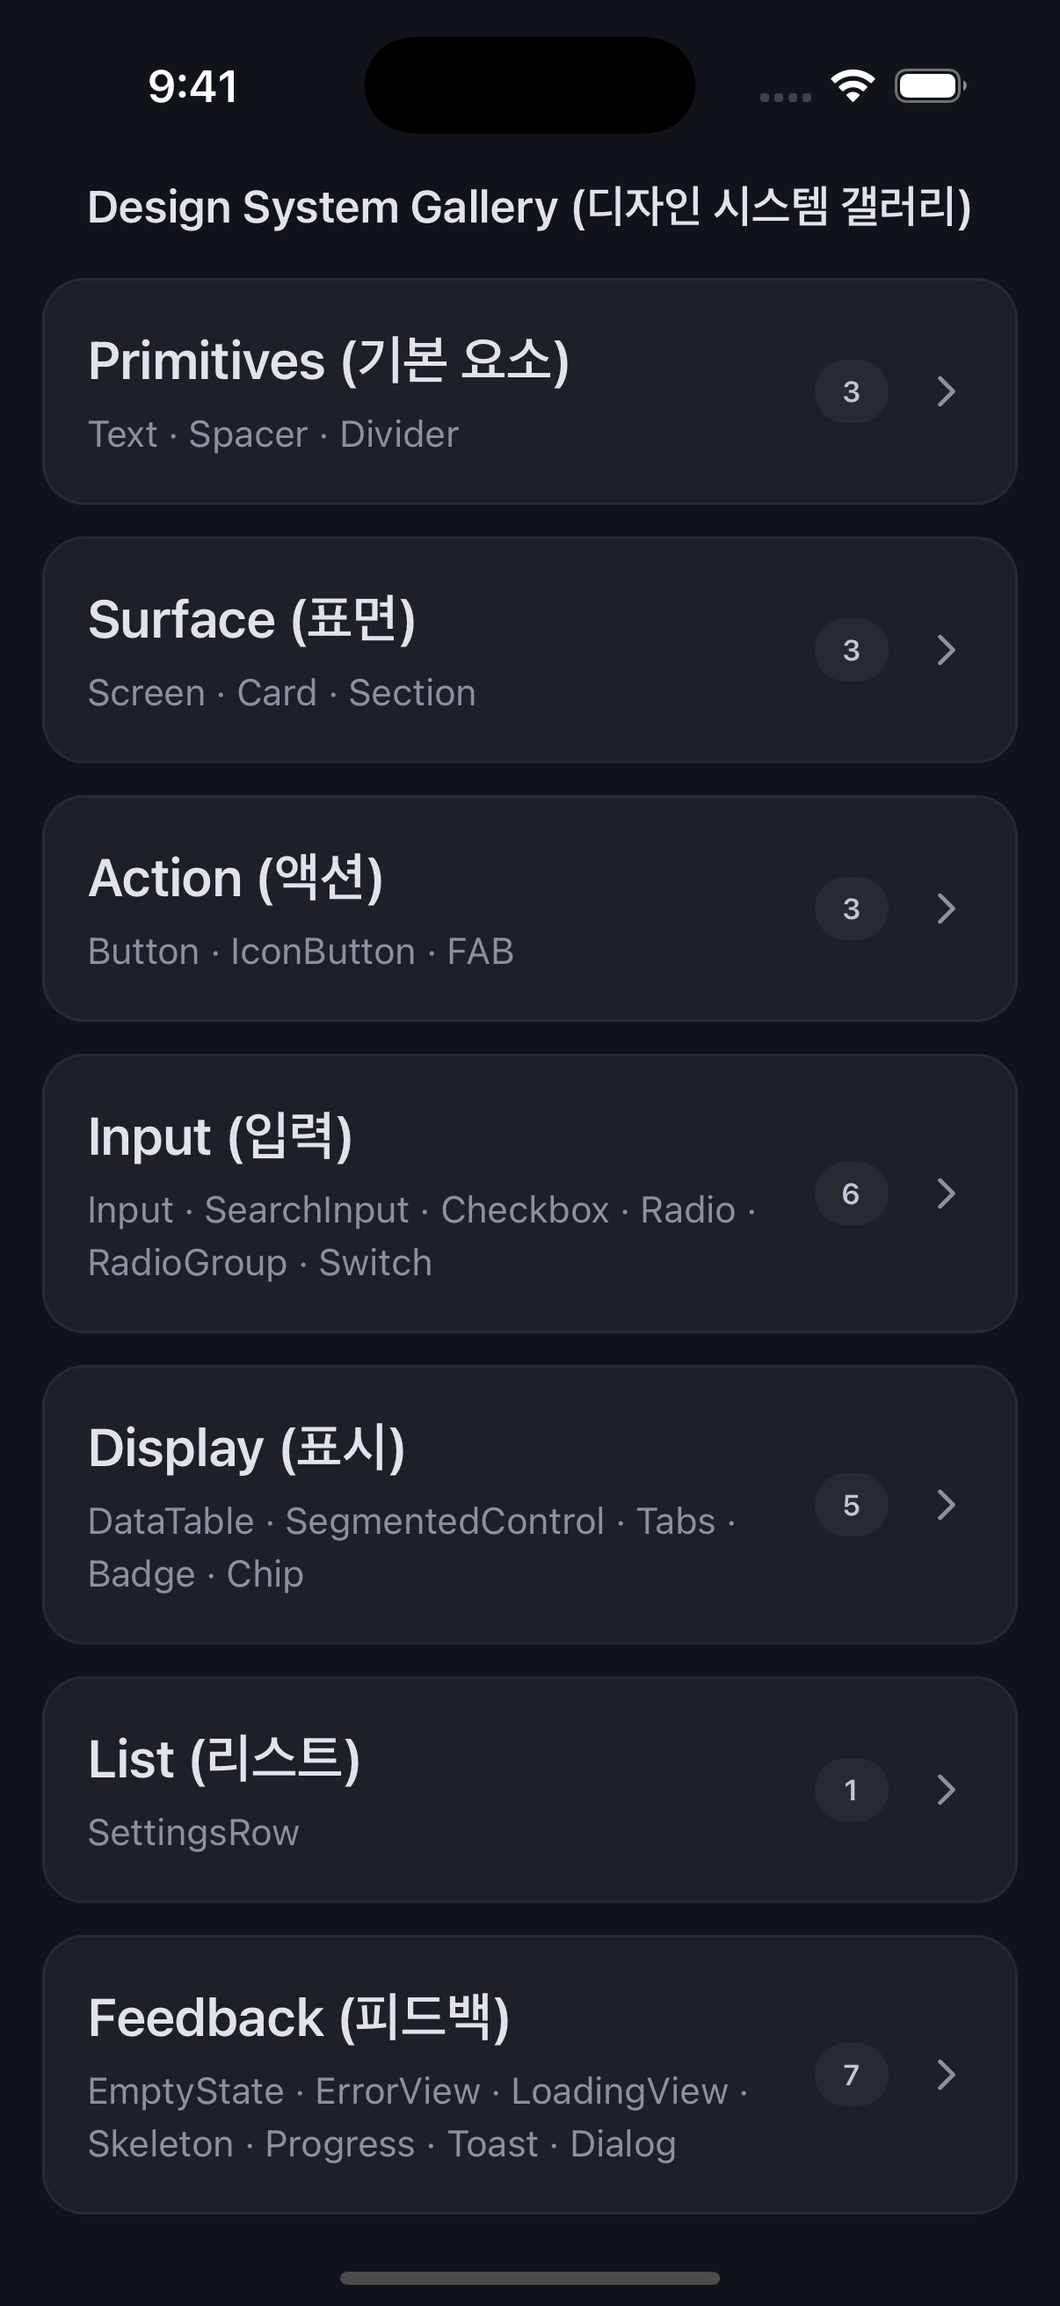
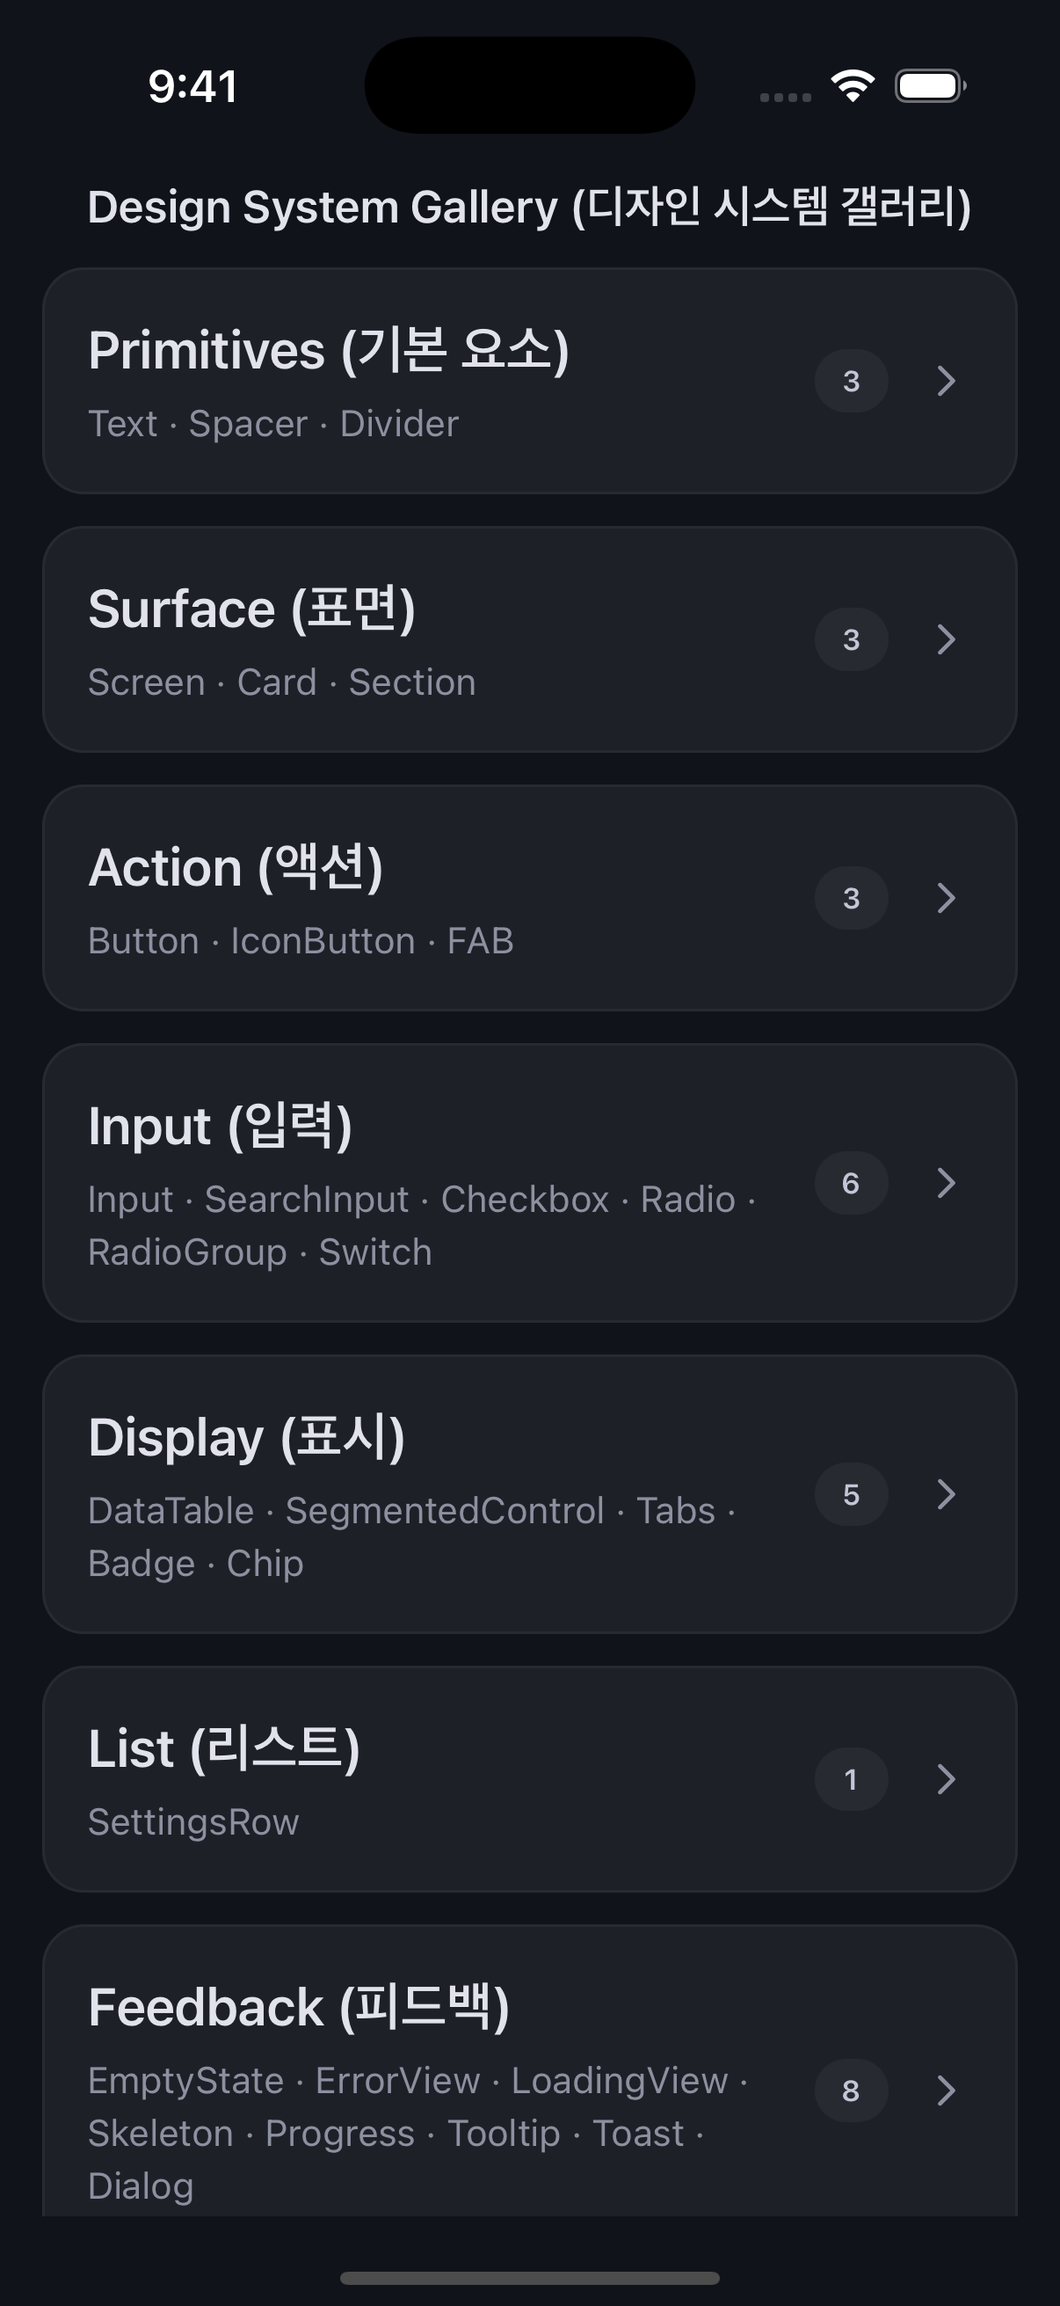
사이클 4 문서/스크린샷 갱신 — ADR-28(사용자 짚기 8~12 누적) + Tooltip 스크린샷 + GalleryHome 29 반영
ADR-28 사이클 4 본질 학습 누적
- 상황: 사용자 본질 짚기 8~12번째 누적 명시 (표면 → 본질 → 환경 본질 → 종속성 검증)
- 선택: cloneElement + InteractivePressableProps Pick 상속 조합 본질적 해결
- 포기한 옵션: Pressable wrap 패턴(RN nested Pressable 충돌로 실패),
  release 시 dismiss(사용자 의도와 다름), 비-인터랙티브 element 자동 wrap(v2.x)
- 근거(라이브러리 본질): 라이브러리 종속성 검증 완료 — RN 표준 PressableProps
  수용 컴포넌트 모두 자유 결합 + 비-인터랙티브 element는 RN Touch Responder
  System 본질 한계
- 근거(사용자 관점): 사용자 본질 짚기 점진적 깊이가 라이브러리 가치 본질적 격상,
  환경 본질도 본질의 일부, 라이브러리 정직성이 가치의 본질
- 사이클 4 학습 9건: 사용자 시각 검증 본질 + RN 환경 특성 + cloneElement RN 정합
  + 갤러리 layout + 사이클 정책 + Pick 상속 표준 + 점진적 깊이 + 사용자 vs
  환경 본질 균형 + 종속성 정직 검증

스크린샷
- docs/screenshots/tooltip-light/dark.png 신규 (4 position + visible 데모 +
  라이브러리 종속성 검증 3 케이스)
- docs/screenshots/home-light/dark.png 갱신 (Feedback 카드 count 8 + 전체 29 반영)

README
- 헤더 28 → 29, 컴포넌트 표에 Tooltip 행 추가
- 스크린샷 섹션 'Feedback — Tooltip' 신규 (Toast 다음, Dialog 앞)
- 사용 예시 'Tooltip' 코드 블록 신규 (자동 모드 + position 지정 + controlled mode)
- 호환 children 가이드 표 (5 케이스 — 라이브러리/Pressable/TouchableOpacity/외부/View)
- v1.x 7번째 표준 패턴 InteractivePressableProps 명시

사이클 4 최종 정합
- 정합 카운트 13/13 (Tooltip), 누적 208/208 (사이클 1·2·3·4)
- 인라인 스타일 분류 A 0건 유지
- 신규 토큰 1개 (surface/inverse) — ADR-28 정책 갱신 정당화
- 신규 의존성 0개 (사이클 1·2·2.5·3·4 누적)
- v1.x 라이브러리 표준 패턴 7번째 (InteractivePressableProps)

diff --git a/DECISIONS.md b/DECISIONS.md
@@ -254,3 +254,18 @@
 - **근거 (기술)**: Reanimated v4 + react-native-svg 첫 결합 패턴 검증 — `Animated.createAnimatedComponent(Circle)` + `useAnimatedProps` (strokeDashoffset 동적 60fps). determinate 300ms `withTiming` — value 변경 부드러운 transition. indeterminate `withRepeat(withTiming, -1, false)` — UI 스레드 worklet 무한 회전/슬라이드 (Linear: `translateX -fillW → trackWidth`, Circular: `rotate 0 → 360deg`). `cancelAnimation` cleanup (unmount memory leak 방지). accessibility — `progressbar` role + determinate `accessibilityValue` `{min:0, max:100, now}` / indeterminate `accessibilityState` `{busy: true}`.
 - **근거 (사용자 관점 — 사이클 3 학습)**: Figma 단계 3 이슈 발견 + Demo Card wrapper 누락 발견 → mode 미리보기 패턴 라이브러리 일관 적용. 코드 단계 본질 발견("다운로드 게이지 차오름") → 동적 데모 추가로 determinate variant 진짜 가치 시연. **Claude Code 자체 검증 통과 ≠ 사용자 시각 검증 통과** — 사용자 본질 짚기가 라이브러리 가치를 한 단계 높임. 사이클 3 학습은 ADR-25 갱신 가치 있으나 v1.x 후순위로 분리.
 - **v2.x 진화 예정**: Interactive 시연 (slider로 value 조정), Circular indet M3 표준 (arc 길이 변화 + 회전), Linear indet M3 표준 (두 fill 교대 슬라이드), buffer variant 지원 (다운로드 + 버퍼링 시나리오), determinate value smooth interpolation 옵션 prop.
+
+---
+
+## ADR-28: Tooltip 컴포넌트 + `surface/inverse` 신규 토큰 + 사이클 정책 갱신 (토큰 0 → 정당화된 토큰) (사이클 4)
+
+- **상황**: 사이클 3 종료 후 Tooltip 진입 (M3 표준 컴포넌트). 사이클 4 사전 조사 후 9개 안건 결정(작업 1 보고서). Figma 설계 중 본질 발견: **라이브러리에 `surface/inverse` 토큰 부재**. M3 Tooltip 표준은 inverse surface 필수 (Plain max-width 200dp + inverse 배경 + inverse on-surface 텍스트). 라이브러리 inverse 패턴은 text(3개) + primary(1개) 4개에만 있고 **surface 영역만 누락**. 사이클 1·2·2.5·3 누적 신규 토큰 0 원칙 유지 시 M3 Tooltip 정확 구현 불가 — Claude Code 큰 변경 사전 보고 의무 이행. **사이클 4 RN 코드 진행 중 본질적 정정 누적 (사용자 본질 짚기 8·9·10·11·12번째)**: 8) IconButton만 onLongPress 추가하면 다른 인터랙티브도 정정 필요 → InteractivePressableProps Pick 상속 5개 일괄 도입. 9) cloneElement 패턴이 라이브러리 외부 컴포넌트 wrap 불가 → Pressable wrap 패턴 시도. 11) Pressable wrap이 nested Pressable 충돌로 Tooltip 표시 0 → **cloneElement 패턴 복원** (RN Touch Responder System 본질 한계). 12) Tooltip 라이브러리 종속성 검증 요청 → 갤러리 검증 섹션 (RN Pressable / View / TouchableOpacity 3 케이스) 추가 + 시각 검증으로 종속 아님 명문화. 사이클 4의 본질적 학습: **환경 본질도 본질의 일부** (사용자 짚기와 RN 환경 제약의 균형).
+- **선택**: **신규 토큰 `color/surface/inverse` 1개 추가** (mode-aware: Light `#1A1F2E` / Dark `#F8FAFC`, scope `FRAME_FILL + SHAPE_FILL`). text는 **기존 `color/text/inverse` (VariableID:16:5) 재사용** — 신규 토큰 최소화. **사이클 정책 갱신**: 이전 "신규 토큰 0개 추가" → 이후 "**정당화된 토큰 추가 가능 (ADR로 사유 명시 필수)**" — ADR-26 의존성 정책 갱신과 동일 구조. **Tooltip 9개 안건 적용**: (1) 트리거 롱프레스 + visible prop, (2) position 4방향 (`'top' | 'bottom' | 'left' | 'right'` default `'top'`), (3) 표시 인라인 절대 위치, (4) dismiss 자동 1500ms, (5) 콘텐츠 string only (M3 Plain, max-width 200dp), (6) 파일 구조 단일 `Tooltip.tsx`, (7) **children wrap cloneElement** (RN nested Pressable 충돌로 Pressable wrap 부적합 — cloneElement가 본질적 해결), (8) placement 4방향, (9) arrow 미표시 (M3 표준 + motion 기반). **InteractivePressableProps Pick 상속 (v1.x 7번째 표준 패턴)**: `src/types/interactive.ts`에 `Pick<PressableProps, 'onLongPress' | 'onPressIn' | 'onPressOut' | 'delayLongPress' | 'hitSlop' | 'accessibilityHint' | 'testID'>` 정의 후 IconButton + Button + FAB + Chip + Switch 5개 `extends InteractivePressableProps` + `...pressableProps` spread → Tooltip cloneElement가 모든 라이브러리 컴포넌트에 도달 보장. **Figma 설계**: 페이지 `2226:3` (29번째, Feedback 카테고리 Progress 다음) / SECTION wrapper + bg/section-main + Light explicit mode (사이클 3 학습 — 처음부터 정확) / Demo Card surface.container + 2×2 grid 4 position 시연 / IconButton 32 target placeholder + Tooltip bubble (8h × 4v padding, cornerRadius 4) + spacing.xs 4 gap.
+- **포기한 옵션**: 옵션 1 `surface/container-highest` 재사용 (M3 inverse 의미 손실, 강조 효과 약함), 옵션 2 `bg/section-main` 재사용 (페이지 wrapper 의미와 충돌 — 향후 결합 위험), API 옵션 1 `value undefined → indet` 암묵적 (명시성 부족, TypeScript 추론 어려움), 단일 `Progress` + type prop (View vs SVG 본질 다름 — 사이클 3 ADR-27 일관), 12방향 placement (단순성 우선, v2.x), 자동 position 계산(measure + viewport flip 복잡, v2.x), TooltipHost 전역(Toast/Dialog 일관 매력있으나 Tooltip은 target 종속 본질 다름), Rich tooltip variant(title + description + action, v2.x), 신규 토큰 0 원칙 무조건 유지(M3 표준 일관 불가 + 라이브러리 inverse 패턴 미완성), **Pressable wrap 패턴** (사이클 4 진행 중 시도 — children에 자동 onLongPress 주입을 위해 외부 Pressable wrap 도입했으나 **RN nested Pressable 충돌로 inner Pressable이 모든 touch 이벤트 capture → Tooltip 표시 0** → cloneElement 패턴 복원), release 시 즉시 dismiss (M3 표준이나 사용자 의도와 다름 — 메시지 읽을 시간 부족 → 1500ms 자동 dismiss만 사용), 비-인터랙티브 element wrap 자동 지원(View 등 — RN Touch Responder System 본질 한계, v2.x Gesture Handler 검토), IconButton만 onLongPress 명시 추가 (5개 인터랙티브 모두 정정 필요 — Pick 상속이 본질).
+- **근거 (라이브러리 본질)**: M3 Tooltip 표준 정확 일관 — inverse surface 필수. 라이브러리 inverse 패턴 완성 — `text/primary-inverse` + `text/secondary-inverse` + `text/inverse` + `primary/inverse` 4개 inverse 토큰 이미 존재 → `surface/inverse` 추가가 패턴 일관 (5개 inverse 토큰 군). 신규 토큰 **1개만 추가** (text 재사용으로 최소화). 사이클 3 학습 우선 적용 — Figma 설계 단계에서 SECTION wrapper + Light/Dark mode-aware + Light/Dark 양 모드 시각 검증 처음부터 정확 (사이클 3 정정 작업 반복 0). **Tooltip 라이브러리 종속성 검증 완료**: 갤러리 검증 섹션 3 케이스(RN Pressable / View / TouchableOpacity) 시각 검증 통과 — RN 표준 PressableProps 수용 컴포넌트(라이브러리 5 인터랙티브 + 외부 라이브러리 + RN Pressable/TouchableOpacity) 모두 결합 가능, 비-인터랙티브 element(View 등)는 RN Touch Responder System 본질 한계로 silent fail (사용자가 Pressable wrap 필요). **cloneElement + InteractivePressableProps Pick 상속 조합**이 RN 환경의 본질적 해결책 — 라이브러리 5 컴포넌트는 Pick 상속으로 onLongPress 자동 수용 → cloneElement 도달 100% 보장. **Figma↔RN 정합**: Tooltip 13/13 (padding 8h/4v + cornerRadius 4 + max-width 200 + gap 4 + 4 position + 토큰 binding 2 + 폰트 size/lineHeight 2). 누적 정합 195 → **208** (사이클 4 +13).
+- **근거 (기술)**: Tooltip 9 안건 RN 환경 정합 — 롱프레스 (`Pressable.onLongPress` 500ms 표준), measure 회피 (4방향 수동 prop), inline 절대 위치 (`position: relative` 부모 + `position: absolute` Tooltip), cloneElement onLongPress 주입 (라이브러리 내 onLongPress 사용 0건 — IconButton/Button/FAB/Chip/Switch 모두 `onPress`만 — 충돌 0건). Reanimated v4 + useAnimatedStyle fade in/out 전환. accessibility — `accessibilityHint` "롱프레스로 도구 설명 표시" 또는 wrap Tooltip의 text를 target accessibilityLabel에 보강.
+- **근거 (사용자 관점)**: 사이클 4 진행 중 Claude Code 큰 변경 사전 보고 (의무 이행). 사용자 결정 — 정책 변경 정당화 + 라이브러리 가치 우선. "토큰 0 원칙"이 올바른 디자인 막으면 정책 재검토 — 사이클 정책은 라이브러리 가치를 지원하는 도구이지 절대 규칙이 아님. ADR-26 의존성 정책 갱신과 동일 학습 패턴 — 한 원칙이 라이브러리 본질과 충돌할 때 ADR로 정당화하여 정책 갱신. **사용자 본질 짚기 8~12번째 누적**: 8) "다른 버튼류도 Tooltip 사용 시?" → 표면 정정(IconButton만 onLongPress 추가) 부족. 9) "디자인 시스템 내부만 작동?" → cloneElement 한계 발견. 10) "PressableProps 상속은?" → InteractivePressableProps Pick + 5 컴포넌트 일괄 표준 패턴 확립. 11) "Tooltip 표시되지 않는다" → Pressable wrap이 RN nested Pressable 충돌로 실패 → cloneElement 복원. 12) "라이브러리 종속 아닌지" → 갤러리 검증 섹션 시각 검증 통과 → 종속 아님 명문화. **사용자 본질 짚기의 점진적 깊이가 라이브러리 가치를 본질적으로 격상**: 표면 정정(8) → 본질 발견(9·10) → 환경 본질 발견(11) → 종속성 정직 검증(12). **환경 본질도 본질의 일부** — 사용자 짚기가 옳은 방향이지만 RN 환경 제약(nested Pressable) 인정 필요. **라이브러리 정직성이 가치의 본질** — 검증으로 한계 명문화.
+- **사이클 정책 변경**: 이전 (사이클 1·2·2.5·3) — "신규 토큰 0개 추가" 원칙. 이후 (사이클 4~) — "**정당화된 토큰 추가 가능 (ADR로 사유 명시 필수)**". 사이클 1·2·2.5·3 누적 신규 토큰 **1개** (사이클 4 `surface/inverse`). 의존성 0 추가 원칙은 유지 (사이클 2.5 ADR-26 정책 변경 이후 누적 변화 없음). 정책 갱신 사례: ADR-26(의존성) + ADR-28(토큰) — "원칙이 라이브러리 본질을 막을 때 ADR로 정당화" 패턴.
+- **v2.x 진화 예정**: 12방향 placement (4방향 × start/end/center), 자동 position fallback (viewport 경계 시 flip — measure() + 계산), Rich tooltip variant (title + description + action, 320dp max-width), 외부 영역 탭 dismiss (Portal/Modal 패턴), arrow/caret 선택 prop (`hasArrow`), interactive 호버 유지 (WCAG 2.2 SC 1.4.13 — RN 환경 한계 검토), Tooltip 위치 자동 계산을 위한 라이브러리 `measure()` helper hook 추출 (Carousel/Drawer 등 다른 컴포넌트도 재사용 가능), **비-인터랙티브 element (View 등) 자동 wrap 지원** — RN Touch Responder System 우회 (Gesture Handler / onTouch raw handler 또는 children Pressable 검출 후 자동 분기), 갤러리 검증 섹션 정리 (v2.x 별도 doc 페이지 분리).
+
+- **사이클 4 학습 (9건 누적)**: (1) 사용자 시각 검증의 본질적 가치 — Claude Code 자체 검증(tsc/eslint) ≠ 사용자 시각 통과. (2) RN 환경 특성 — transform percentage 미지원 / useAnimatedStyle worklet 안 percentage 신뢰성 부족 / measure 후 픽셀 위치 표준. (3) **cloneElement 패턴의 RN 환경 정합** — Pressable wrap 패턴은 nested Pressable 충돌로 부적합. cloneElement가 RN 환경 본질적 해결책. (4) 갤러리 layout이 컴포넌트 시각의 본질에 영향 — 2×2 grid + 의미 pair 배치(top/bottom vertical, right/left horizontal swap). (5) 사이클 정책 갱신은 의존성·토큰 모두 동일 학습 구조 — ADR-26(의존성) ↔ ADR-28(토큰). (6) **인터랙티브 컴포넌트 PressableProps Pick 상속 표준 (InteractivePressableProps)** — v1.x 라이브러리 표준 패턴 7번째 확립. (7) 사용자 본질 짚기의 점진적 깊이 (8 → 9 → 10번째) — 표면적 정정과 본질적 정정의 차이. (8) **사용자 본질 vs 환경 본질의 균형** (사용자 짚기 11번째) — 사용자 짚기가 옳은 방향이지만 RN 환경 제약(nested Pressable)으로 부분 실현. 환경 한계도 본질의 일부. (9) **라이브러리 종속성 정직 검증** (사용자 짚기 12번째) — 갤러리 검증 섹션으로 본질 명문화. Tooltip은 RN 표준 PressableProps 수용 컴포넌트와 자유 결합, 비-인터랙티브 element는 환경 한계. 라이브러리 정직성이 가치의 본질.

diff --git a/README.md b/README.md
@@ -1,6 +1,6 @@
 # rn-design-system-starter
 
-> React Native 0.85 디자인 시스템 스타터 — 28개 컴포넌트, 2-tier 토큰, 라이트/다크 자동 전환, 전역 Toast·Dialog 호스트.
+> React Native 0.85 디자인 시스템 스타터 — 29개 컴포넌트, 2-tier 토큰, 라이트/다크 자동 전환, 전역 Toast·Dialog 호스트.
 
 ## Screenshots
 
@@ -96,6 +96,11 @@
 |:---:|:---:|
 | ![toast light](docs/screenshots/toast-light.png) | ![toast dark](docs/screenshots/toast-dark.png) |
 
+### Feedback — Tooltip (도구 설명)
+| Light | Dark |
+|:---:|:---:|
+| ![tooltip light](docs/screenshots/tooltip-light.png) | ![tooltip dark](docs/screenshots/tooltip-dark.png) |
+
 ### Feedback — Dialog (다이얼로그)
 | Light | Dark |
 |:---:|:---:|
@@ -113,7 +118,7 @@ npm run ios      # 또는 npm run android
 
 요구사항: Node.js 22.11+, Xcode 16+ (iOS), Android Studio + JDK 17+ (Android).
 
-## 포함 컴포넌트 (28종, 7 카테고리)
+## 포함 컴포넌트 (29종, 7 카테고리)
 
 | 카테고리 | 컴포넌트 | 설명 |
 |---|---|---|
@@ -142,6 +147,7 @@ npm run ios      # 또는 npm run android
 | | `LoadingView` | 로딩 상태 표현 |
 | | `Skeleton` | 콘텐츠 로딩 placeholder (3 types: rect/circle/text, backgroundColor pulse 애니메이션 1.5초) |
 | | `LinearProgress` / `CircularProgress` | M3 진행률 표시 (3 sizes × determinate/indeterminate, Reanimated v4 + react-native-svg, 12시 시작 시계 방향) |
+| | `Tooltip` | M3 Plain 도구 설명 (4 position, 롱프레스 발동 + visible 외부 제어, max-width 200dp, 1500ms 자동 dismiss) |
 | | `Toast` | 일시적 알림 메시지 (큐잉 + 자동 닫힘) |
 | | `Dialog` | 모달 다이얼로그 (Promise 반환) |
 
@@ -287,6 +293,41 @@ import { LinearProgress, CircularProgress } from '@/components/feedback';
 <LinearProgress variant="indeterminate" />
 <CircularProgress variant="indeterminate" size="sm" />
 ```
+
+### Tooltip
+```tsx
+import { Tooltip } from '@/components/feedback';
+import { Settings } from 'lucide-react-native';
+
+// 자동 모드 (롱프레스 → 1500ms 자동 dismiss)
+<Tooltip text="설정 메뉴">
+  <IconButton icon={<Settings />} onPress={openSettings} accessibilityLabel="설정" />
+</Tooltip>
+
+// position 지정 (4방향)
+<Tooltip text="삭제합니다" position="bottom">
+  <IconButton icon={<Trash />} onPress={handleDelete} accessibilityLabel="삭제" />
+</Tooltip>
+
+// 외부 제어 (visible prop) — onboarding 시나리오
+const [hint, setHint] = useState(true);
+<Tooltip text="여기를 눌러보세요!" visible={hint}>
+  <Button label="시작" onPress={onStart} />
+</Tooltip>
+```
+
+#### 호환 children
+Tooltip의 children은 `onLongPress` prop을 수용하는 element 필수:
+
+| children 타입 | 호환 | 비고 |
+|---|---|---|
+| 라이브러리 인터랙티브 컴포넌트 (IconButton/Button/FAB/Chip/Switch) | ✓ | `InteractivePressableProps` Pick 상속(v1.x 7번째 표준 패턴)으로 자동 |
+| RN `Pressable` | ✓ | 표준 onLongPress 수용 |
+| RN `TouchableOpacity` | ✓ | 표준 onLongPress 수용 |
+| 외부 라이브러리 컴포넌트 | ✓ | onLongPress prop 수용 시 |
+| RN `View` (비-인터랙티브) | ❌ | RN Touch Responder System 본질 한계 — `Pressable`로 직접 wrap 후 사용 |
+
+→ 비-인터랙티브 element wrap 시 권장 패턴: `<Tooltip><Pressable onPress={...}>{content}</Pressable></Tooltip>`. 갤러리 Tooltip sub-tab "라이브러리 종속성 검증 (3 케이스)" 섹션 참조.
 
 ## Toast & Dialog
 
